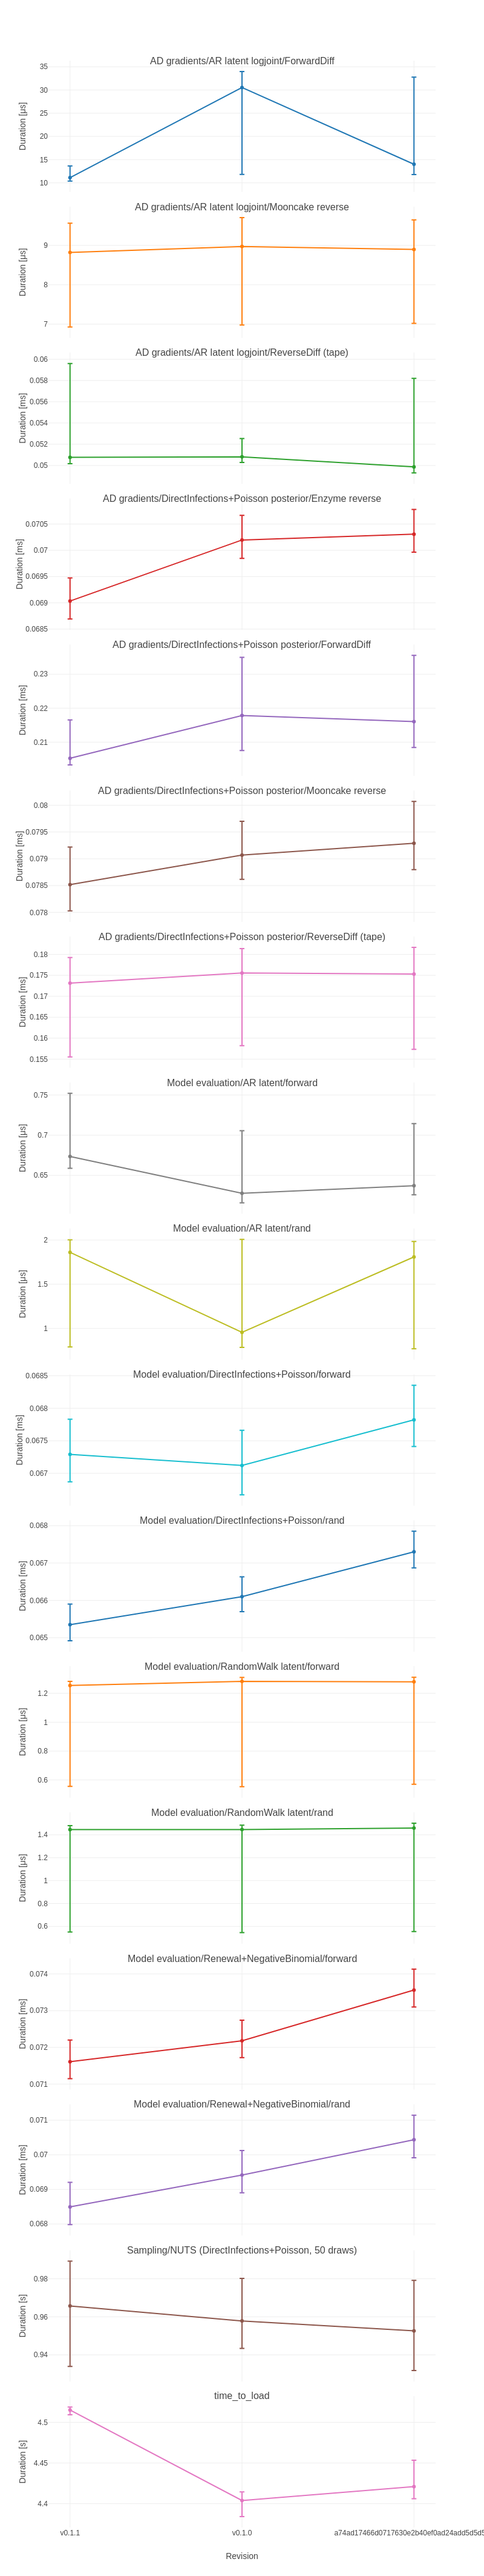
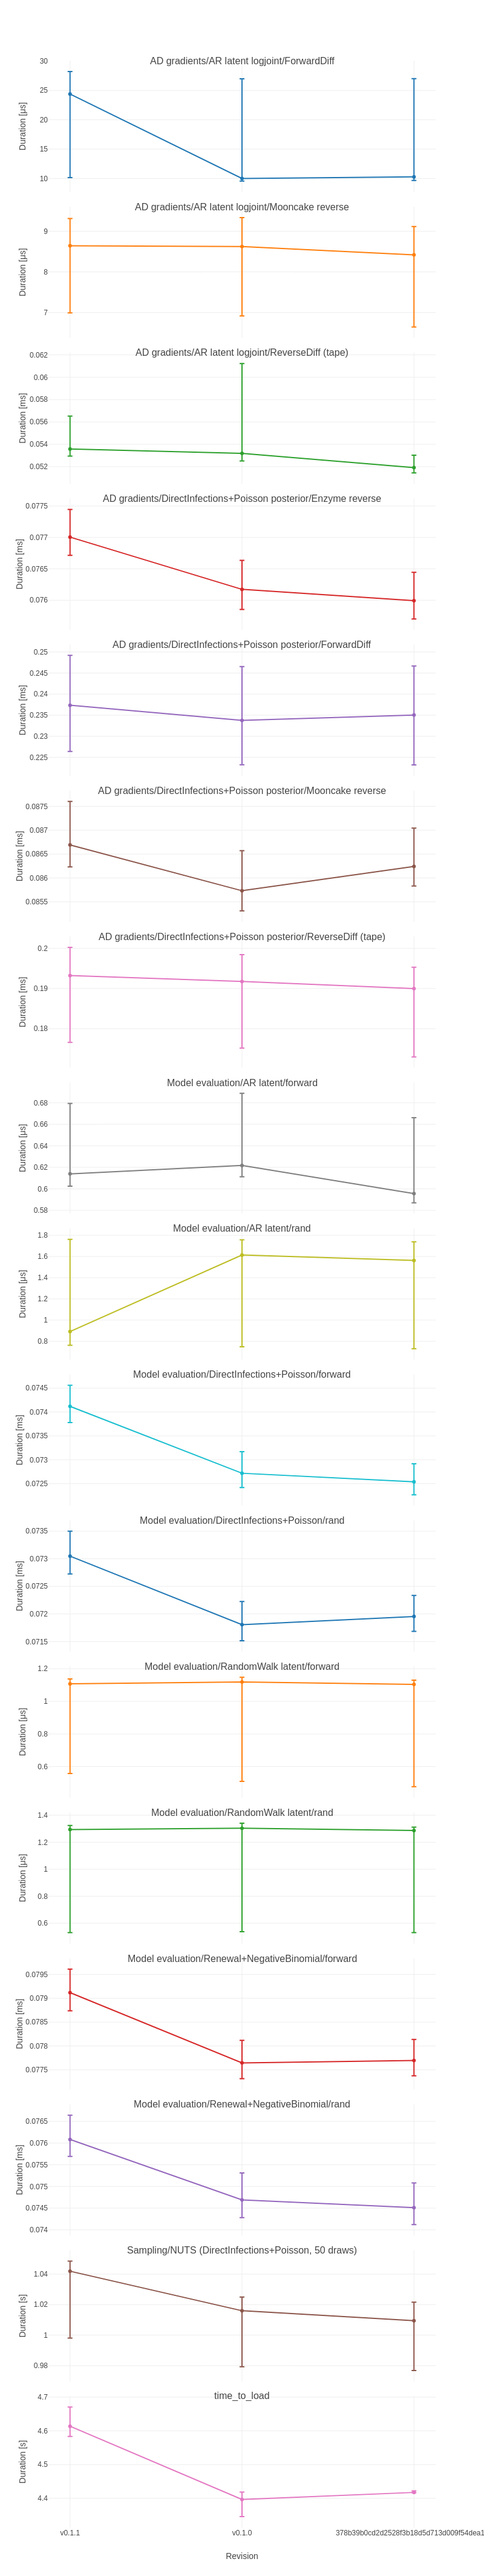
Deploying to benchmarks from @ EpiAware/ComposableTuringIDModels.jl@378b39b0cd2d2528f3b18d5d713d009f54dea110 🚀

diff --git a/history/table.md b/history/table.md
@@ -1,24 +1,24 @@
-|                                                                    | v0.1.1              | v0.1.0              | a74ad17466d071...   |
+|                                                                    | v0.1.1              | v0.1.0              | 378b39b0cd2d25...   |
 |:-------------------------------------------------------------------|:-------------------:|:-------------------:|:-------------------:|
-| AD gradients/AR latent logjoint/ForwardDiff                        | 11.1 ± 3.2 μs       | 30.5 ± 22 μs        | 14 ± 21 μs          |
-| AD gradients/AR latent logjoint/Mooncake reverse                   | 8.82 ± 2.6 μs       | 8.97 ± 2.7 μs       | 8.9 ± 2.6 μs        |
-| AD gradients/AR latent logjoint/ReverseDiff (tape)                 | 0.0508 ± 0.0094 ms  | 0.0508 ± 0.0023 ms  | 0.0499 ± 0.0089 ms  |
-| AD gradients/DirectInfections+Poisson posterior/Enzyme reverse     | 0.069 ± 0.00078 ms  | 0.0702 ± 0.00082 ms | 0.0703 ± 0.00081 ms |
-| AD gradients/DirectInfections+Poisson posterior/ForwardDiff        | 0.205 ± 0.013 ms    | 0.218 ± 0.027 ms    | 0.216 ± 0.027 ms    |
-| AD gradients/DirectInfections+Poisson posterior/Mooncake reverse   | 0.0785 ± 0.0012 ms  | 0.0791 ± 0.0011 ms  | 0.0793 ± 0.0013 ms  |
-| AD gradients/DirectInfections+Poisson posterior/ReverseDiff (tape) | 0.173 ± 0.024 ms    | 0.176 ± 0.023 ms    | 0.175 ± 0.024 ms    |
-| Model evaluation/AR latent/forward                                 | 0.674 ± 0.093 μs    | 0.628 ± 0.09 μs     | 0.637 ± 0.089 μs    |
-| Model evaluation/AR latent/rand                                    | 1.86 ± 1.2 μs       | 0.956 ± 1.2 μs      | 1.81 ± 1.2 μs       |
-| Model evaluation/DirectInfections+Poisson/forward                  | 0.0673 ± 0.00096 ms | 0.0671 ± 0.00099 ms | 0.0678 ± 0.00094 ms |
-| Model evaluation/DirectInfections+Poisson/rand                     | 0.0653 ± 0.00098 ms | 0.0661 ± 0.00093 ms | 0.0673 ± 0.00098 ms |
-| Model evaluation/RandomWalk latent/forward                         | 1.25 ± 0.73 μs      | 1.28 ± 0.76 μs      | 1.28 ± 0.74 μs      |
-| Model evaluation/RandomWalk latent/rand                            | 1.45 ± 0.93 μs      | 1.45 ± 0.94 μs      | 1.46 ± 0.95 μs      |
-| Model evaluation/Renewal+NegativeBinomial/forward                  | 0.0716 ± 0.0011 ms  | 0.0722 ± 0.001 ms   | 0.0736 ± 0.001 ms   |
-| Model evaluation/Renewal+NegativeBinomial/rand                     | 0.0685 ± 0.0012 ms  | 0.0694 ± 0.0012 ms  | 0.0704 ± 0.0012 ms  |
-| Sampling/NUTS (DirectInfections+Poisson, 50 draws)                 | 0.966 ± 0.055 s     | 0.958 ± 0.037 s     | 0.953 ± 0.047 s     |
-| time_to_load                                                       | 4.52 ± 0.0095 s     | 4.4 ± 0.03 s        | 4.42 ± 0.047 s      |
+| AD gradients/AR latent logjoint/ForwardDiff                        | 24.4 ± 18 μs        | 10 ± 17 μs          | 10.3 ± 17 μs        |
+| AD gradients/AR latent logjoint/Mooncake reverse                   | 8.64 ± 2.3 μs       | 8.62 ± 2.4 μs       | 8.42 ± 2.5 μs       |
+| AD gradients/AR latent logjoint/ReverseDiff (tape)                 | 0.0536 ± 0.0036 ms  | 0.0532 ± 0.0087 ms  | 0.0519 ± 0.0016 ms  |
+| AD gradients/DirectInfections+Poisson posterior/Enzyme reverse     | 0.077 ± 0.00073 ms  | 0.0762 ± 0.00078 ms | 0.076 ± 0.00074 ms  |
+| AD gradients/DirectInfections+Poisson posterior/ForwardDiff        | 0.237 ± 0.023 ms    | 0.234 ± 0.023 ms    | 0.235 ± 0.023 ms    |
+| AD gradients/DirectInfections+Poisson posterior/Mooncake reverse   | 0.0867 ± 0.0014 ms  | 0.0857 ± 0.0013 ms  | 0.0862 ± 0.0012 ms  |
+| AD gradients/DirectInfections+Poisson posterior/ReverseDiff (tape) | 0.193 ± 0.024 ms    | 0.192 ± 0.023 ms    | 0.19 ± 0.022 ms     |
+| Model evaluation/AR latent/forward                                 | 0.614 ± 0.077 μs    | 0.622 ± 0.078 μs    | 0.596 ± 0.079 μs    |
+| Model evaluation/AR latent/rand                                    | 0.892 ± 1 μs        | 1.61 ± 1 μs         | 1.56 ± 1 μs         |
+| Model evaluation/DirectInfections+Poisson/forward                  | 0.0741 ± 0.00078 ms | 0.0727 ± 0.00075 ms | 0.0725 ± 0.00065 ms |
+| Model evaluation/DirectInfections+Poisson/rand                     | 0.073 ± 0.00077 ms  | 0.0718 ± 0.00071 ms | 0.072 ± 0.00065 ms  |
+| Model evaluation/RandomWalk latent/forward                         | 1.11 ± 0.58 μs      | 1.12 ± 0.64 μs      | 1.1 ± 0.65 μs       |
+| Model evaluation/RandomWalk latent/rand                            | 1.29 ± 0.79 μs      | 1.3 ± 0.8 μs        | 1.29 ± 0.78 μs      |
+| Model evaluation/Renewal+NegativeBinomial/forward                  | 0.0791 ± 0.00087 ms | 0.0776 ± 0.0008 ms  | 0.0777 ± 0.00076 ms |
+| Model evaluation/Renewal+NegativeBinomial/rand                     | 0.0761 ± 0.00095 ms | 0.0747 ± 0.001 ms   | 0.0745 ± 0.00096 ms |
+| Sampling/NUTS (DirectInfections+Poisson, 50 draws)                 | 1.04 ± 0.05 s       | 1.02 ± 0.046 s      | 1.01 ± 0.045 s      |
+| time_to_load                                                       | 4.61 ± 0.087 s      | 4.4 ± 0.073 s       | 4.42 ± 0.0055 s     |
 
-|                                                                    | v0.1.1                    | v0.1.0                    | a74ad17466d071...         |
+|                                                                    | v0.1.1                    | v0.1.0                    | 378b39b0cd2d25...         |
 |:-------------------------------------------------------------------|:-------------------------:|:-------------------------:|:-------------------------:|
 | AD gradients/AR latent logjoint/ForwardDiff                        | 0.056 k allocs: 0.0508 MB | 0.056 k allocs: 0.0508 MB | 0.056 k allocs: 0.0508 MB |
 | AD gradients/AR latent logjoint/Mooncake reverse                   | 0.04 k allocs: 4.98 kB    | 0.04 k allocs: 4.98 kB    | 0.04 k allocs: 4.98 kB    |

diff --git a/history/README.md b/history/README.md
@@ -1,6 +1,6 @@
 # ComposableTuringIDModels.jl benchmark history
 
-Revisions: v0.1.1,v0.1.0,a74ad17466d0717630e2b40ef0ad24add5d5d5a2
+Revisions: v0.1.1,v0.1.0,378b39b0cd2d2528f3b18d5d713d009f54dea110
 
 See `table.md` for the ratio summary and the PNG
 files in this folder for per-benchmark timelines.
